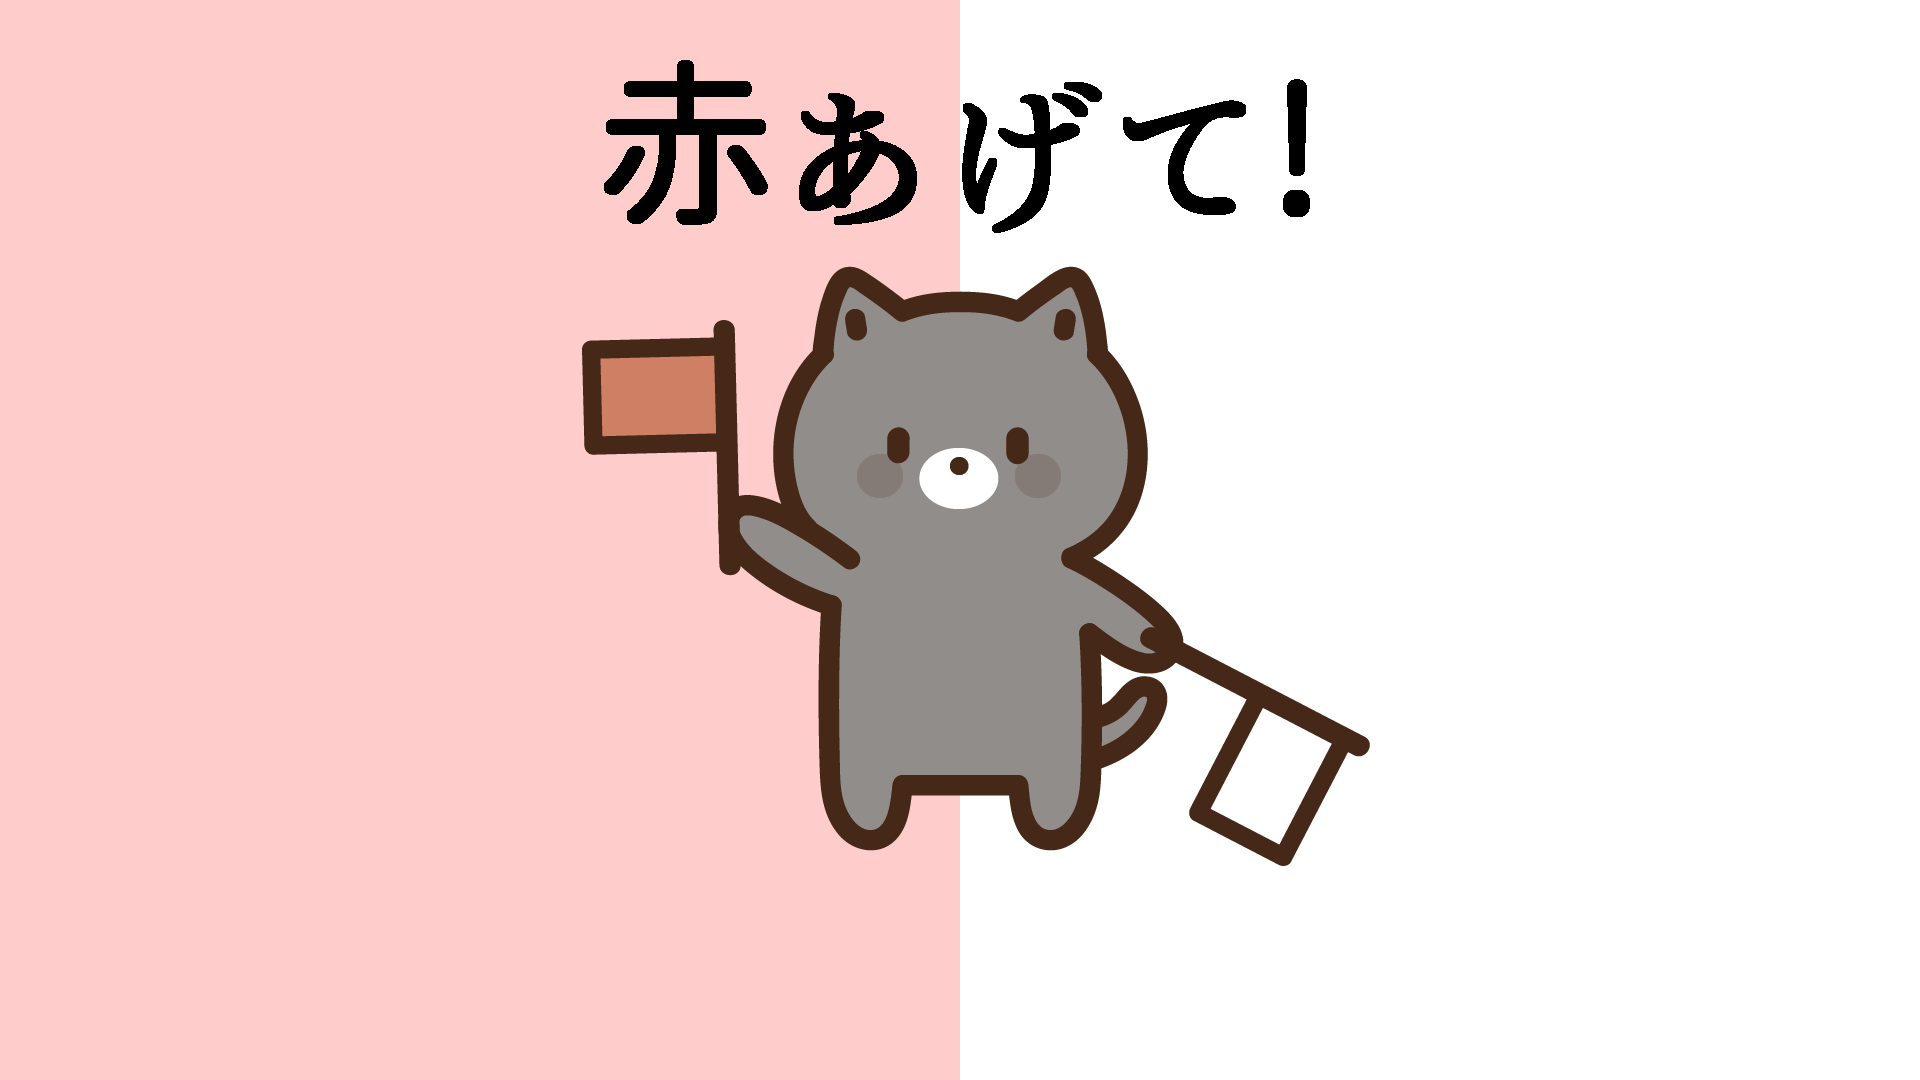
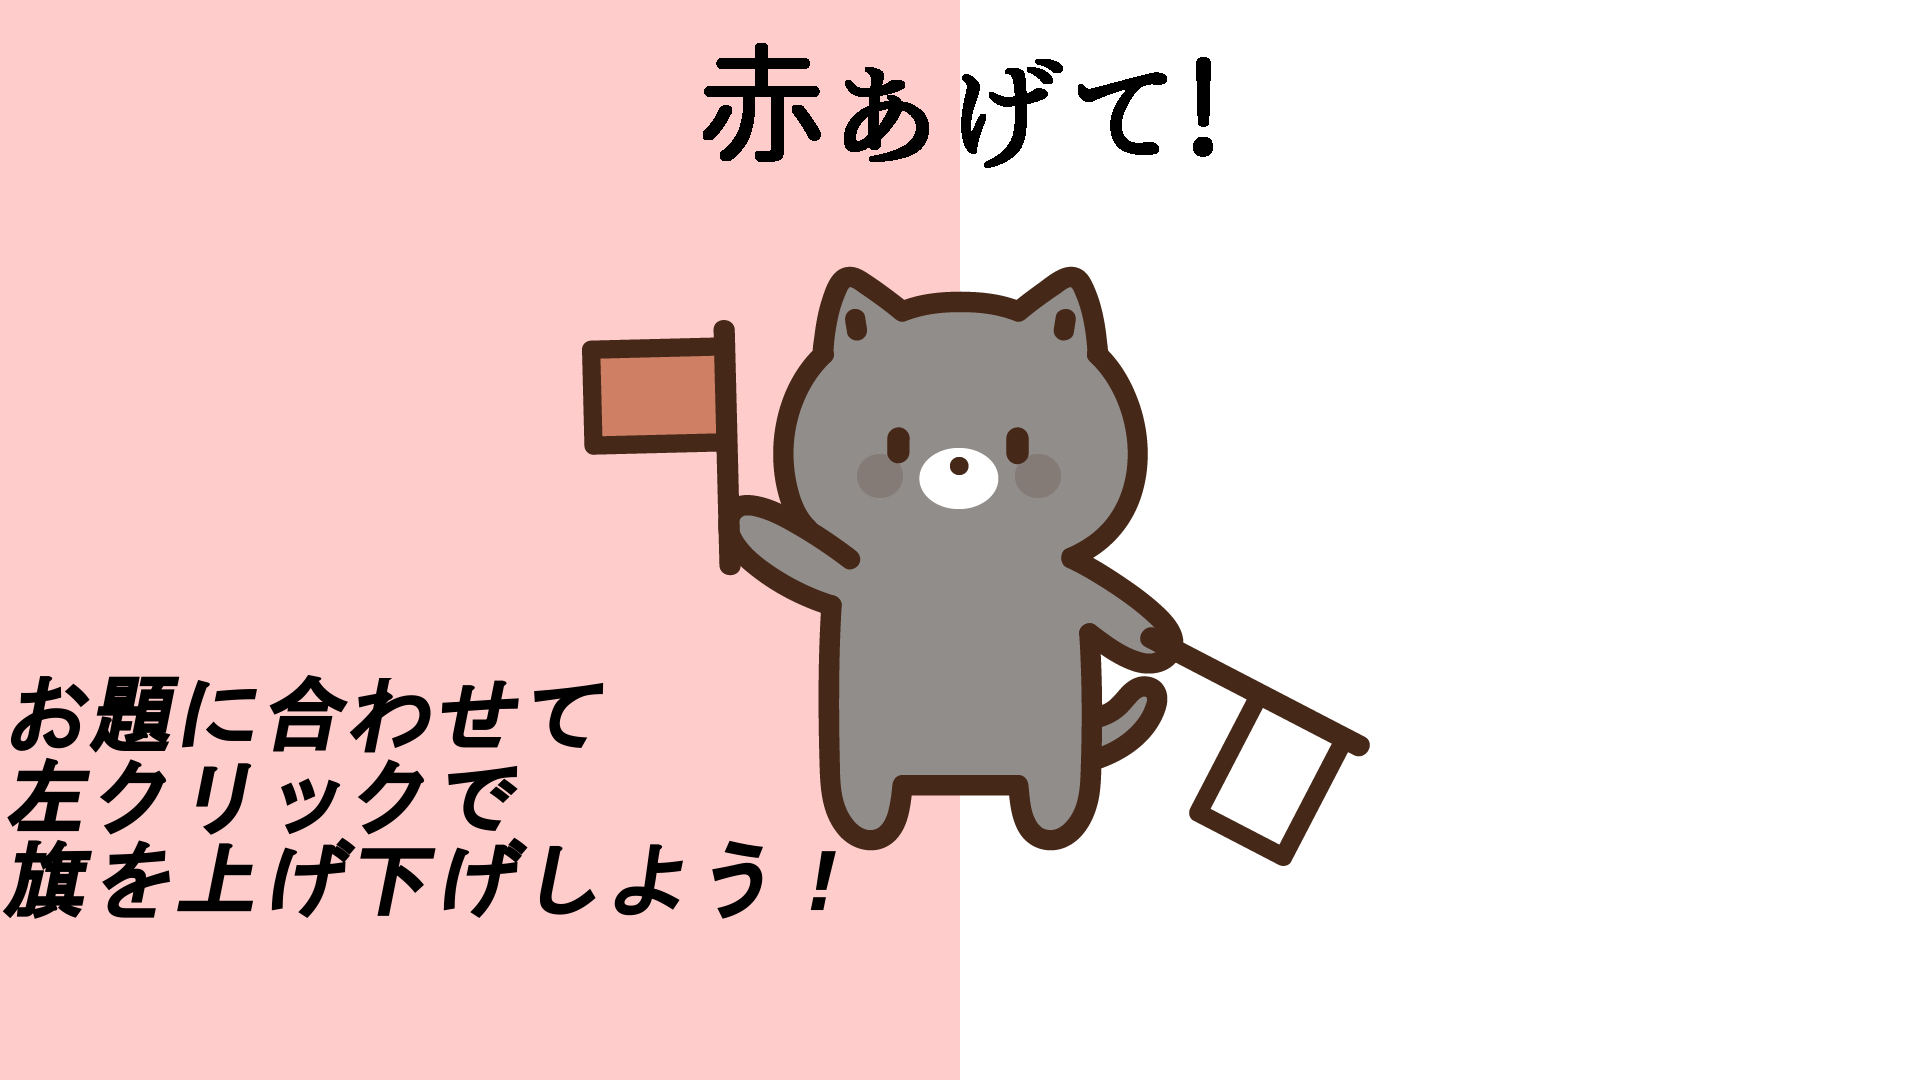
説明用の画像の修正と、ゲーム開始前に説明ﾃｷｽﾄを追加した

Changed region(s): [[0.0, 0.6111, 0.4375, 0.8556], [0.3125, 0.0306, 0.6875, 0.2139]]

diff --git a/BrainTraining/Game.cpp b/BrainTraining/Game.cpp
@@ -89,7 +89,7 @@ void Game::Run()
 			scenes.Draw();
 
 #ifdef _DEBUG
-			// peripheral.DebugDraw();
+			peripheral.DebugDraw();
 #endif // _DEBUG
 
 			DxLib::ScreenFlip();
